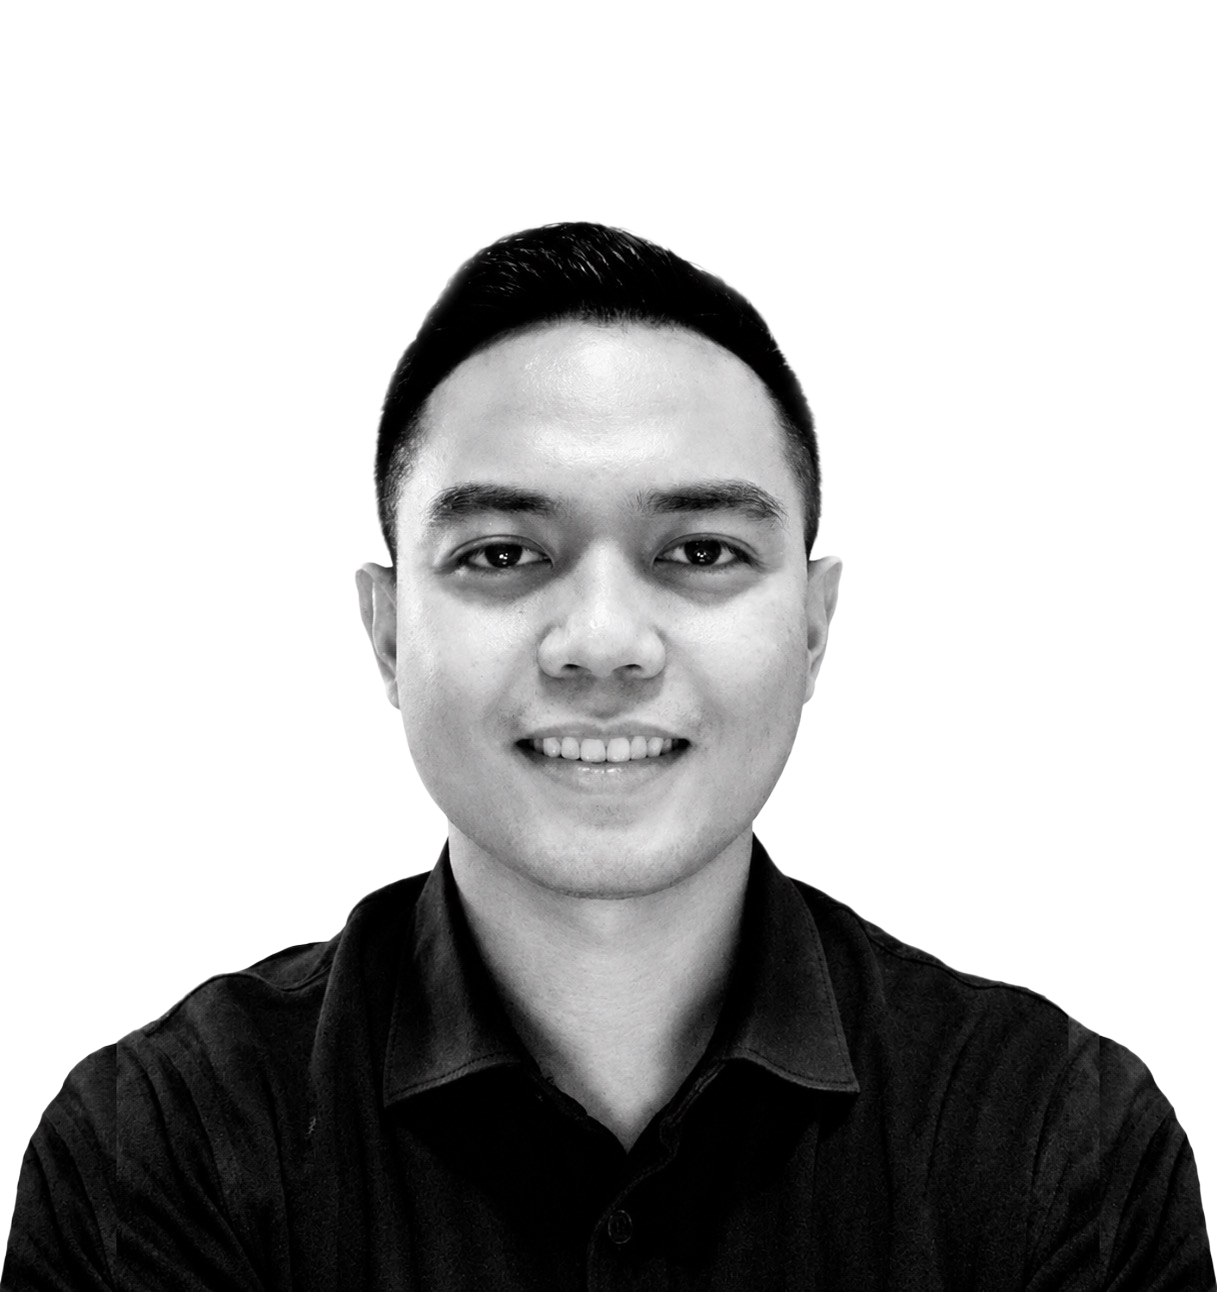
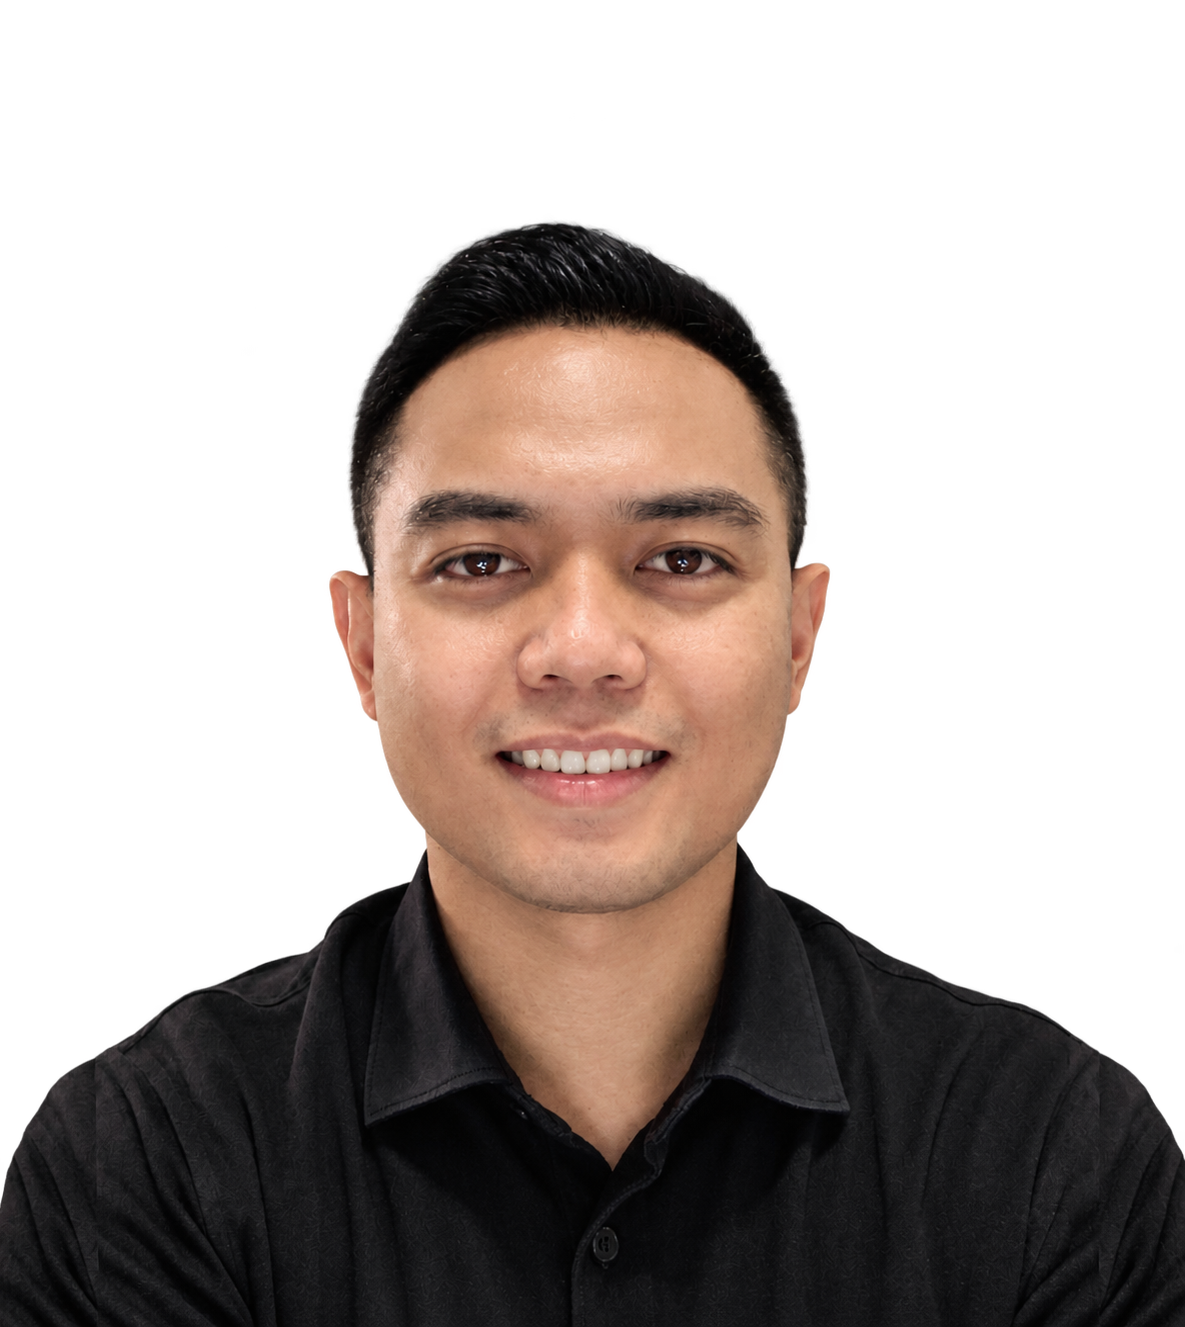
profile pic grayscale/color

diff --git a/public/scss/style.css b/public/scss/style.css
@@ -1053,174 +1053,174 @@ box to be used for the random glitch effect. Also adds a very subtle
 skew to change the 'thickness' of the glitch.*/
 @keyframes glitch-anim {
   0% {
-    clip: rect(153px, 9999px, 215px, 0);
-    transform: skew(0.71deg);
-  }
-  5% {
-    clip: rect(201px, 9999px, 137px, 0);
-    transform: skew(0.45deg);
-  }
-  10% {
-    clip: rect(29px, 9999px, 249px, 0);
-    transform: skew(0.54deg);
-  }
-  15% {
-    clip: rect(170px, 9999px, 174px, 0);
-    transform: skew(0.54deg);
-  }
-  20% {
-    clip: rect(239px, 9999px, 146px, 0);
+    clip: rect(289px, 9999px, 325px, 0);
     transform: skew(0.04deg);
   }
+  5% {
+    clip: rect(292px, 9999px, 345px, 0);
+    transform: skew(0.81deg);
+  }
+  10% {
+    clip: rect(308px, 9999px, 387px, 0);
+    transform: skew(0.38deg);
+  }
+  15% {
+    clip: rect(172px, 9999px, 214px, 0);
+    transform: skew(0.82deg);
+  }
+  20% {
+    clip: rect(57px, 9999px, 166px, 0);
+    transform: skew(0.07deg);
+  }
   25% {
-    clip: rect(149px, 9999px, 184px, 0);
-    transform: skew(0.98deg);
+    clip: rect(278px, 9999px, 134px, 0);
+    transform: skew(0.68deg);
   }
   30% {
-    clip: rect(12px, 9999px, 79px, 0);
-    transform: skew(0.76deg);
+    clip: rect(277px, 9999px, 283px, 0);
+    transform: skew(0.79deg);
   }
   35% {
-    clip: rect(372px, 9999px, 136px, 0);
-    transform: skew(0.52deg);
+    clip: rect(16px, 9999px, 196px, 0);
+    transform: skew(0.33deg);
   }
   40% {
-    clip: rect(353px, 9999px, 280px, 0);
-    transform: skew(0.95deg);
+    clip: rect(387px, 9999px, 327px, 0);
+    transform: skew(0.61deg);
   }
   45% {
-    clip: rect(395px, 9999px, 275px, 0);
-    transform: skew(0.3deg);
+    clip: rect(268px, 9999px, 75px, 0);
+    transform: skew(0.02deg);
   }
   50% {
-    clip: rect(195px, 9999px, 336px, 0);
-    transform: skew(0.06deg);
+    clip: rect(380px, 9999px, 197px, 0);
+    transform: skew(0.03deg);
   }
   55% {
-    clip: rect(308px, 9999px, 237px, 0);
-    transform: skew(0.39deg);
+    clip: rect(366px, 9999px, 253px, 0);
+    transform: skew(0.56deg);
   }
   60% {
-    clip: rect(148px, 9999px, 43px, 0);
-    transform: skew(0.99deg);
+    clip: rect(130px, 9999px, 202px, 0);
+    transform: skew(0.74deg);
   }
   65% {
-    clip: rect(244px, 9999px, 398px, 0);
-    transform: skew(0.77deg);
+    clip: rect(306px, 9999px, 361px, 0);
+    transform: skew(0.35deg);
   }
   70% {
-    clip: rect(156px, 9999px, 140px, 0);
-    transform: skew(0.14deg);
+    clip: rect(271px, 9999px, 253px, 0);
+    transform: skew(0.76deg);
   }
   75% {
-    clip: rect(400px, 9999px, 359px, 0);
-    transform: skew(0.11deg);
+    clip: rect(314px, 9999px, 187px, 0);
+    transform: skew(0.95deg);
   }
   80% {
-    clip: rect(238px, 9999px, 119px, 0);
-    transform: skew(0.16deg);
+    clip: rect(55px, 9999px, 320px, 0);
+    transform: skew(0.65deg);
   }
   85% {
-    clip: rect(181px, 9999px, 390px, 0);
-    transform: skew(0.13deg);
+    clip: rect(180px, 9999px, 173px, 0);
+    transform: skew(0.46deg);
   }
   90% {
-    clip: rect(381px, 9999px, 339px, 0);
-    transform: skew(0.75deg);
+    clip: rect(145px, 9999px, 388px, 0);
+    transform: skew(0.07deg);
   }
   95% {
-    clip: rect(339px, 9999px, 31px, 0);
-    transform: skew(0.8deg);
+    clip: rect(212px, 9999px, 188px, 0);
+    transform: skew(0.32deg);
   }
   100% {
-    clip: rect(29px, 9999px, 219px, 0);
-    transform: skew(0.56deg);
+    clip: rect(25px, 9999px, 75px, 0);
+    transform: skew(0.09deg);
   }
 }
 @keyframes glitch-anim2 {
   0% {
-    clip: rect(5px, 9999px, 95px, 0);
-    transform: skew(0.89deg);
-  }
-  5% {
-    clip: rect(64px, 9999px, 36px, 0);
-    transform: skew(0.49deg);
-  }
-  10% {
-    clip: rect(90px, 9999px, 26px, 0);
-    transform: skew(0.19deg);
-  }
-  15% {
-    clip: rect(25px, 9999px, 36px, 0);
-    transform: skew(0.25deg);
-  }
-  20% {
-    clip: rect(92px, 9999px, 29px, 0);
-    transform: skew(0.11deg);
-  }
-  25% {
-    clip: rect(30px, 9999px, 99px, 0);
+    clip: rect(4px, 9999px, 25px, 0);
     transform: skew(0.15deg);
   }
+  5% {
+    clip: rect(60px, 9999px, 54px, 0);
+    transform: skew(1deg);
+  }
+  10% {
+    clip: rect(76px, 9999px, 27px, 0);
+    transform: skew(0.49deg);
+  }
+  15% {
+    clip: rect(42px, 9999px, 86px, 0);
+    transform: skew(0.97deg);
+  }
+  20% {
+    clip: rect(56px, 9999px, 2px, 0);
+    transform: skew(0.71deg);
+  }
+  25% {
+    clip: rect(13px, 9999px, 95px, 0);
+    transform: skew(0.12deg);
+  }
   30% {
-    clip: rect(66px, 9999px, 82px, 0);
-    transform: skew(0.86deg);
+    clip: rect(99px, 9999px, 41px, 0);
+    transform: skew(0.79deg);
   }
   35% {
-    clip: rect(41px, 9999px, 8px, 0);
-    transform: skew(0.29deg);
+    clip: rect(100px, 9999px, 67px, 0);
+    transform: skew(0.8deg);
   }
   40% {
-    clip: rect(18px, 9999px, 61px, 0);
+    clip: rect(58px, 9999px, 1px, 0);
     transform: skew(0.59deg);
   }
   45% {
-    clip: rect(32px, 9999px, 62px, 0);
-    transform: skew(0.72deg);
+    clip: rect(15px, 9999px, 47px, 0);
+    transform: skew(0.04deg);
   }
   50% {
-    clip: rect(1px, 9999px, 84px, 0);
-    transform: skew(0.24deg);
+    clip: rect(47px, 9999px, 94px, 0);
+    transform: skew(0.73deg);
   }
   55% {
-    clip: rect(37px, 9999px, 26px, 0);
-    transform: skew(0.54deg);
+    clip: rect(72px, 9999px, 82px, 0);
+    transform: skew(0.18deg);
   }
   60% {
-    clip: rect(95px, 9999px, 53px, 0);
-    transform: skew(0.09deg);
+    clip: rect(68px, 9999px, 59px, 0);
+    transform: skew(0.23deg);
   }
   65% {
-    clip: rect(35px, 9999px, 88px, 0);
-    transform: skew(0.59deg);
+    clip: rect(92px, 9999px, 46px, 0);
+    transform: skew(0.72deg);
   }
   70% {
-    clip: rect(61px, 9999px, 53px, 0);
-    transform: skew(0.59deg);
+    clip: rect(86px, 9999px, 15px, 0);
+    transform: skew(0.8deg);
   }
   75% {
-    clip: rect(97px, 9999px, 53px, 0);
-    transform: skew(0.28deg);
+    clip: rect(75px, 9999px, 75px, 0);
+    transform: skew(0.89deg);
   }
   80% {
-    clip: rect(64px, 9999px, 25px, 0);
-    transform: skew(0.94deg);
+    clip: rect(88px, 9999px, 91px, 0);
+    transform: skew(0.77deg);
   }
   85% {
-    clip: rect(1px, 9999px, 57px, 0);
-    transform: skew(0.88deg);
+    clip: rect(64px, 9999px, 27px, 0);
+    transform: skew(0.83deg);
   }
   90% {
-    clip: rect(82px, 9999px, 37px, 0);
-    transform: skew(0.54deg);
+    clip: rect(90px, 9999px, 1px, 0);
+    transform: skew(0.15deg);
   }
   95% {
-    clip: rect(4px, 9999px, 21px, 0);
-    transform: skew(0.19deg);
+    clip: rect(10px, 9999px, 21px, 0);
+    transform: skew(0.22deg);
   }
   100% {
-    clip: rect(93px, 9999px, 99px, 0);
-    transform: skew(0.58deg);
+    clip: rect(13px, 9999px, 68px, 0);
+    transform: skew(0.25deg);
   }
 }
 /* -------------------------------------------
@@ -2505,6 +2505,16 @@ banner
   -o-object-position: left center;
   object-position: left center;
   vertical-align: top;
+  filter: grayscale(100%) brightness(120%) contrast(120%);
+  transition: filter 0.6s ease;
+}
+.cyril-banner .cyril-banner-image.cyril-photo-hover {
+  filter: grayscale(0) brightness(100%) contrast(100%);
+}
+@media (prefers-reduced-motion: reduce) {
+  .cyril-banner .cyril-banner-image {
+    transition: none;
+  }
 }
 @media screen and (max-width: 1200px) {
   .cyril-banner .cyril-banner-image {

diff --git a/layout/MotionEffects.js b/layout/MotionEffects.js
@@ -534,6 +534,8 @@ const MotionEffects = () => {
       y: 0,
     })).filter((layer) => layer.el);
 
+    const heroPhoto = document.querySelector(MAIN_IMAGE_SELECTOR);
+
     const heroShown = () => {
       const hero = document.getElementById('intro');
       return !!hero && !hero.classList.contains('cyril-hero-exit');
@@ -603,8 +605,11 @@ const MotionEffects = () => {
       ring.classList.toggle('cyril-cursor-link', !card && !!link);
       // Hide over icon buttons and the visible pixels of the hero photo.
       const mainImage = target?.closest(MAIN_IMAGE_SELECTOR);
-      root.classList.toggle('cyril-cursor-hide',
-        !!target?.closest(ICON_BUTTON_SELECTOR) || (!!mainImage && isOverVisiblePixel(mainImage, mouseX, mouseY)));
+      const overPhoto = !!mainImage && isOverVisiblePixel(mainImage, mouseX, mouseY);
+      root.classList.toggle('cyril-cursor-hide', !!target?.closest(ICON_BUTTON_SELECTOR) || overPhoto);
+      // The hero photo is grayscale at rest and turns to color while the
+      // pointer is on the person (not the transparent area around them).
+      heroPhoto?.classList.toggle('cyril-photo-hover', overPhoto);
 
       // Magnetic pull
       const magnetic = findMagnetic(target);
@@ -646,6 +651,7 @@ const MotionEffects = () => {
     const onLeave = (e) => {
       if (e.relatedTarget) return;
       root.classList.remove('cyril-cursor-visible');
+      heroPhoto?.classList.remove('cyril-photo-hover');
       releaseMagnetic();
       releaseTilt();
     };
@@ -664,6 +670,7 @@ const MotionEffects = () => {
       releaseMagnetic();
       releaseTilt();
       parallax.forEach((layer) => { layer.el.style.translate = ''; });
+      heroPhoto?.classList.remove('cyril-photo-hover');
       root.classList.remove('cyril-has-cursor', 'cyril-cursor-visible', 'cyril-cursor-hide');
     };
   }, []);

diff --git a/public/scss/_components.scss b/public/scss/_components.scss
@@ -1541,6 +1541,19 @@ banner
         -o-object-position: left center;
         object-position: left center;
         vertical-align: top;
+        // Grayscale at rest, full color while the pointer is on the person
+        // (.cyril-photo-hover, toggled by MotionEffects.js from the photo's
+        // alpha map).
+        filter: grayscale(100%) brightness(120%) contrast(120%);
+        transition: filter 0.6s ease;
+
+        &.cyril-photo-hover {
+            filter: grayscale(0) brightness(100%) contrast(100%);
+        }
+
+        @media (prefers-reduced-motion: reduce) {
+            transition: none;
+        }
 
         @media screen and (max-width: 1200px) {
             display: none;
